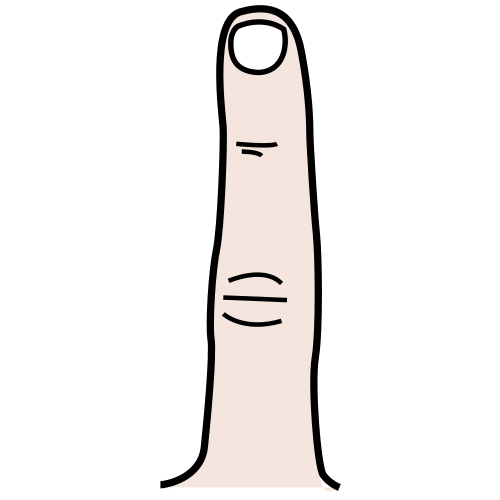
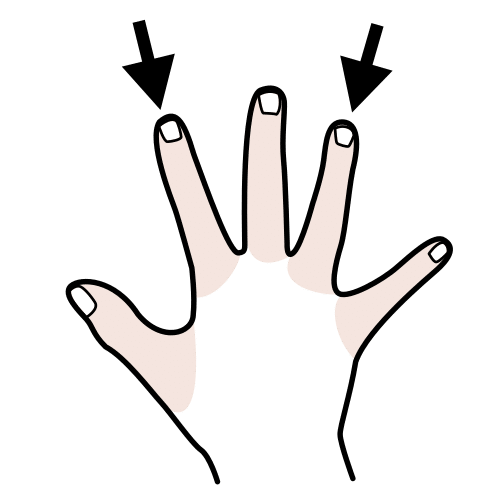
fix frases

Changed region(s): [[0.12, 0.0, 0.93, 0.99]]

diff --git a/modules/frases/frases.js b/modules/frases/frases.js
@@ -301,7 +301,17 @@ function _renderNiveles() {
   wrap.innerHTML = '';
   wrap.appendChild(label);
 
-  NIVELES.forEach(n => {
+  // Solo mostrar niveles que tienen frases en el idioma activo
+  const nivelesConFrases = NIVELES.filter(n =>
+    _todasFrases.some(f => f.nivel === n.id && (f.lang || 'es') === _lang)
+  );
+
+  // Si el nivel activo no tiene frases en este idioma, cambiar al primero disponible
+  if (nivelesConFrases.length && !nivelesConFrases.find(n => n.id === _nivel)) {
+    _nivel = nivelesConFrases[0].id;
+  }
+
+  nivelesConFrases.forEach(n => {
     const btn = document.createElement('button');
     btn.className   = 'fr-nivel-btn' + (n.id === _nivel ? ' activo' : '');
     btn.textContent = n.label + ' ' + n.titulo;
@@ -388,7 +398,13 @@ function _renderSelector() {
     btn.className = 'fr-pill' + (i === _activa ? ' activa' : '');
     if (i === _activa && nivelCfg) btn.style.background = nivelCfg.color;
     btn.textContent = _lang === 'en' ? (f.en || f.es) : f.es;
-    btn.addEventListener('click', () => { haptic(8); _seleccionarFrase(i); });
+    btn.addEventListener('click', () => {
+      haptic(8);
+      _seleccionarFrase(i);
+      // Reproducir el enunciado completo al seleccionarlo
+      const texto = _lang === 'en' ? (f.en || f.es) : f.es;
+      _reproducirFrase(texto, f.id);
+    });
     wrap.appendChild(btn);
   });
 }
@@ -474,7 +490,20 @@ function _onFraseCompleta(frase) {
     lanzarConfeti({ count: 60, container: _el });
   }
 
-  setTimeout(() => _hablarTTS(frase.es), ordenCorrecto ? 600 : 200);
+  const texto = _lang === 'en' ? (frase.en || frase.es) : frase.es;
+
+  // Esperar a que termine el audio de la última pieza antes de leer la frase completa.
+  // Si _audioEl está reproduciendo, esperamos su evento 'ended'.
+  // Si no hay audio o ya terminó, usamos un delay mínimo.
+  const delay = ordenCorrecto ? 400 : 100;
+  if (_audioEl && !_audioEl.paused) {
+    _audioEl.addEventListener('ended', () => _reproducirFrase(texto, frase.id), { once: true });
+    _audioEl.addEventListener('error', () => {
+      setTimeout(() => _reproducirFrase(texto, frase.id), delay);
+    }, { once: true });
+  } else {
+    setTimeout(() => _reproducirFrase(texto, frase.id), delay);
+  }
 
   Telemetry.track('frase_completada', {
     _modulo: 'frases', frase: frase.id,
@@ -538,6 +567,20 @@ function _bindEvents() {
 }
 
 // ─── Audio ────────────────────────────────────────────────────────────────────
+
+// Reproduce el MP3 del enunciado completo (frases/{lang}/{id}.mp3)
+// con fallback a TTS si el archivo no existe.
+function _reproducirFrase(texto, id) {
+  if (!_audioEl) {
+    _audioEl = document.createElement('audio');
+    _audioEl.preload = 'none';
+  }
+  _audioEl.pause();
+  _audioEl.src     = AUDIO_FRASE_URL(id, _lang);
+  _audioEl.onerror = () => _hablarTTS(texto);
+  _audioEl.play().catch(() => _hablarTTS(texto));
+}
+
 function _reproducirPieza(pieza) {
   const url = pieza.tipo === 'picto'
     ? AUDIO_URL(pieza.texto, _lang)
@@ -562,5 +605,7 @@ function _onLangChange(e) {
   const nuevoLang = e.detail?.lang;
   if (!nuevoLang || nuevoLang === _lang) return;
   _lang = nuevoLang;
+  // _renderNiveles ajusta _nivel si el actual no tiene frases en el nuevo idioma
+  _renderNiveles();
   _cambiarNivel(_nivel);
 }